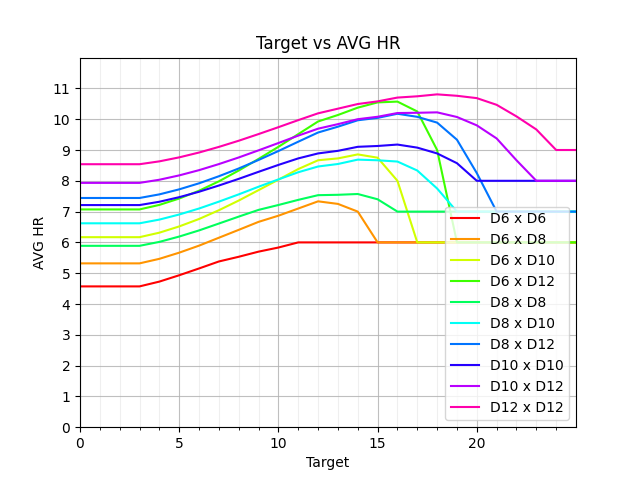
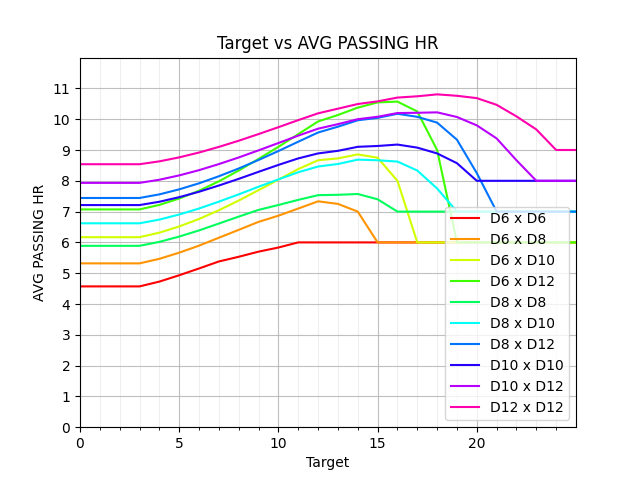
Better title of AVG PASSING HR plot

Changed region(s): [[0.3438, 0.0625, 0.6875, 0.125], [0.0312, 0.375, 0.0938, 0.625]]

diff --git a/VISUALISERS/dice_passing_hr_plotter.py b/VISUALISERS/dice_passing_hr_plotter.py
@@ -31,9 +31,9 @@ def plot_dice_combos_by_avg_hr_v_dc():
     plt.grid(which='minor', alpha=0.2)
     plt.xlim([0, 25])
     plt.ylim([0, 12])
-    plt.title("Target vs AVG HR")
+    plt.title("Target vs AVG PASSING HR")
     plt.xlabel("Target")
-    plt.ylabel("AVG HR")
+    plt.ylabel("AVG PASSING HR")
 
     plt.savefig('../IMG/passing_hr_dmg.png')
     plt.show()
